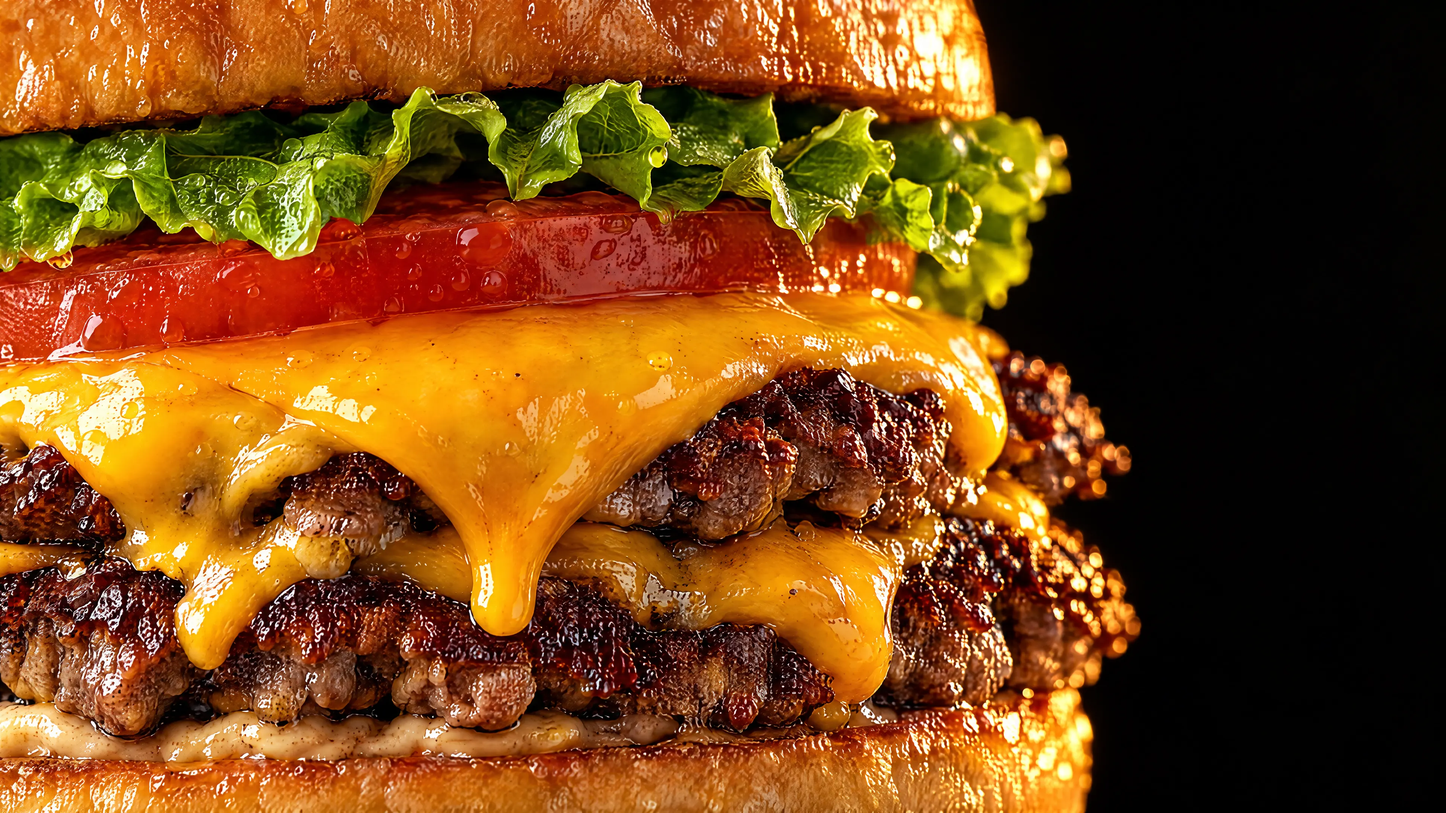
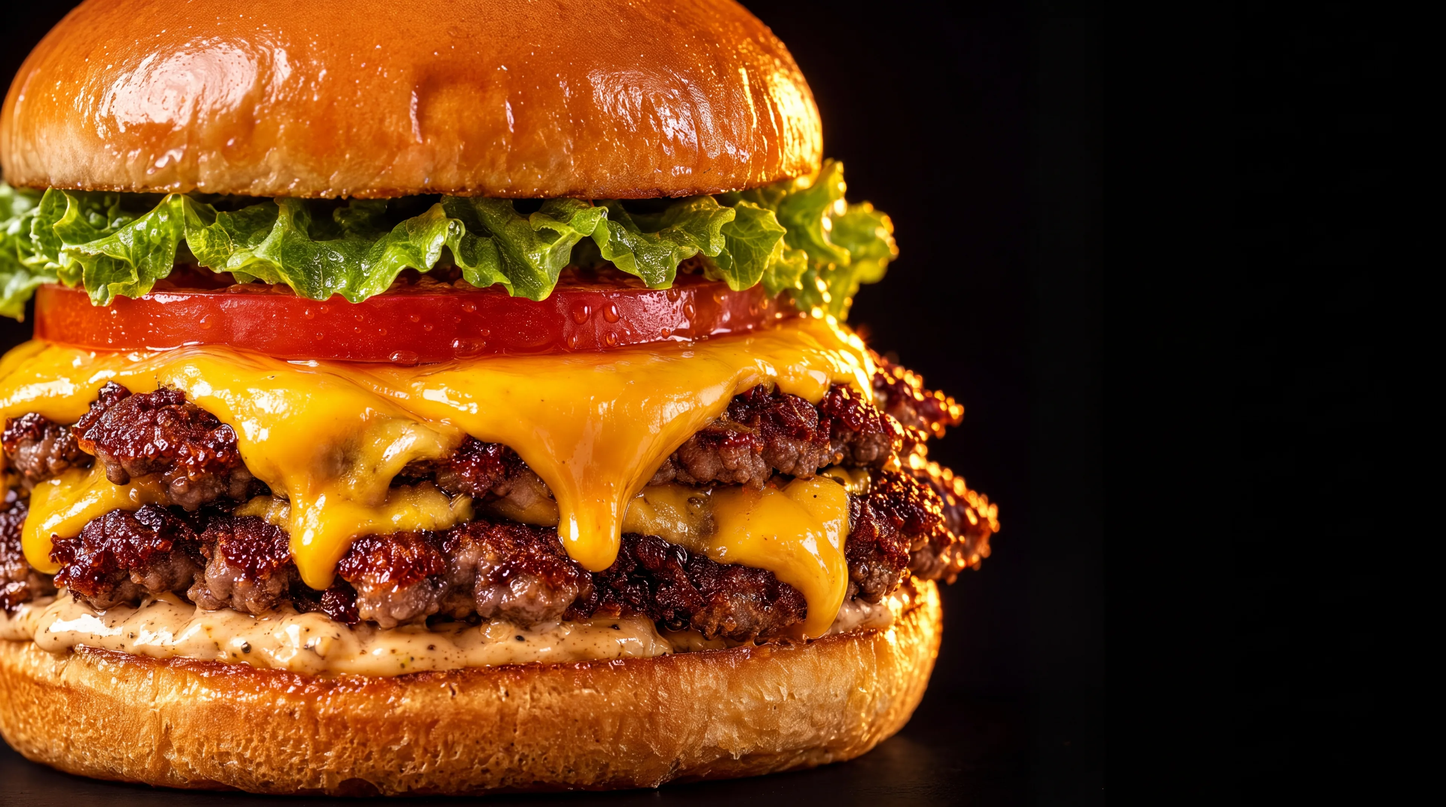
Macro en 4K real con encuadre más abierto y hamburguesas de la carta más grandes

diff --git a/src/app/sections.css b/src/app/sections.css
@@ -585,7 +585,7 @@
 }
 .product__square {
   position: relative;
-  width: min(100%, 46vmin);
+  width: min(100%, 76vmin);
   aspect-ratio: 1;
 }
 .product__burst {
@@ -596,7 +596,7 @@
 }
 .product__photo {
   position: absolute;
-  inset: 13%;
+  inset: 3%;
   will-change: transform;
 }
 @media (max-width: 639px) {
@@ -620,6 +620,9 @@
   .product__burst,
   .product__photo {
     transform: none !important;
+  }
+  .product__square {
+    width: min(100%, 86vmin);
   }
 }
 
@@ -952,7 +955,7 @@
 .macro__img {
   position: absolute;
   inset: 0;
-  transform: scale(1.15);
+  transform: scale(1.08);
   transform-origin: 50% 50%;
   will-change: transform;
 }

diff --git a/src/components/sections/Products.tsx b/src/components/sections/Products.tsx
@@ -60,7 +60,7 @@ export default function Products() {
                     }}
                     className="product__photo"
                   >
-                    <ImageSlot id={p.slot} shape="circle" sizes="(max-width: 640px) 80vw, 46vmin" />
+                    <ImageSlot id={p.slot} shape="circle" sizes="(max-width: 640px) 90vw, 76vmin" />
                   </div>
                   {k === 0 && (
                     <>

diff --git a/src/data/images.ts b/src/data/images.ts
@@ -73,7 +73,7 @@ export const slots: Record<SlotId, SlotImage | null> = {
     src: "/images/macro-queso-carne.webp",
     alt: "Primer plano del cheddar fundido cayendo sobre el borde crujiente de la carne",
     width: 3840,
-    height: 2160,
+    height: 2143,
   },
   "coge-la-tuya-burger": burgerCerrada("Smash burger de Sixth Street cerrada"),
   "manifiesto-burger": burgerCerrada("Smash burger de Sixth Street cerrada"),

diff --git a/src/components/sections/Macro.tsx b/src/components/sections/Macro.tsx
@@ -18,7 +18,7 @@ export default function Macro() {
       const rc = sec.getBoundingClientRect();
       const vh = window.innerHeight;
       const v = clamp((vh - rc.top) / (vh + rc.height), 0, 1);
-      el.style.transform = `scale(${1.15 - 0.15 * v})`;
+      el.style.transform = `scale(${1.08 - 0.08 * v})`;
     });
   }, []);
 
